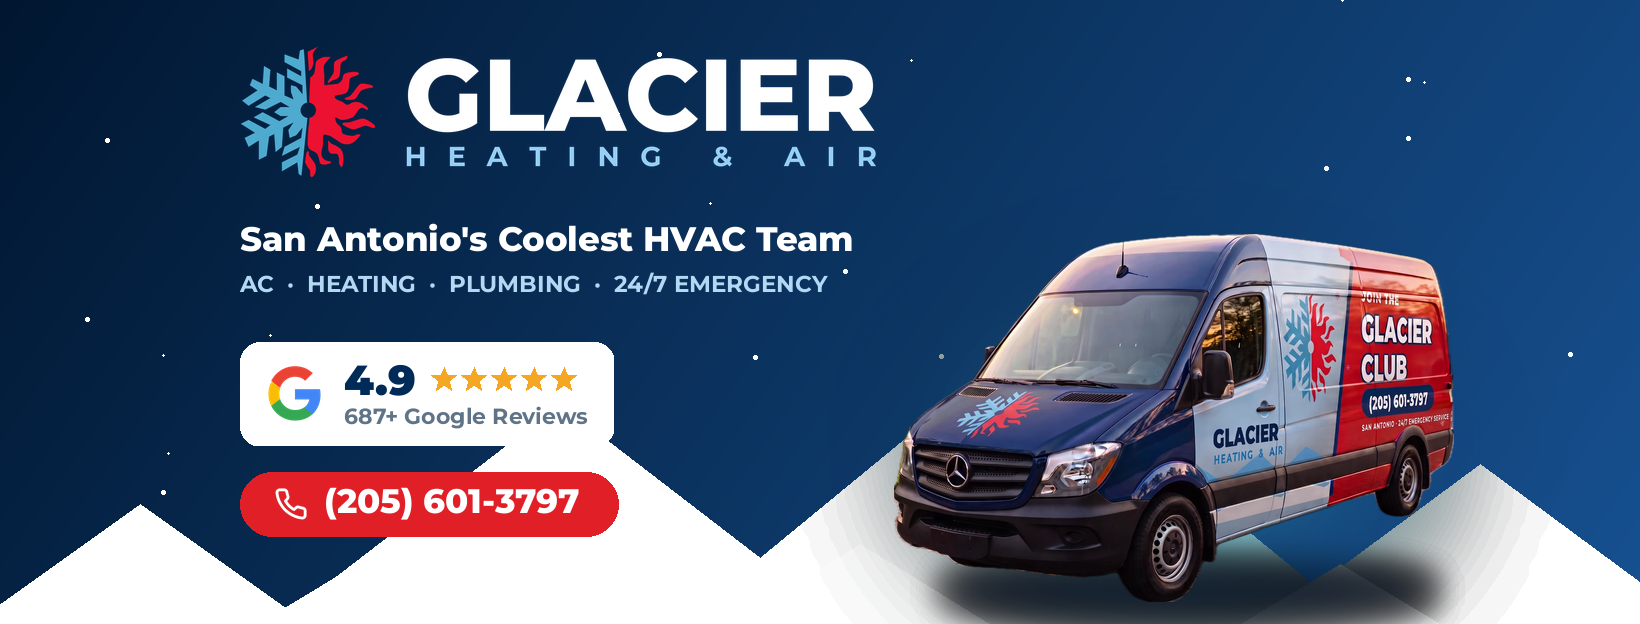
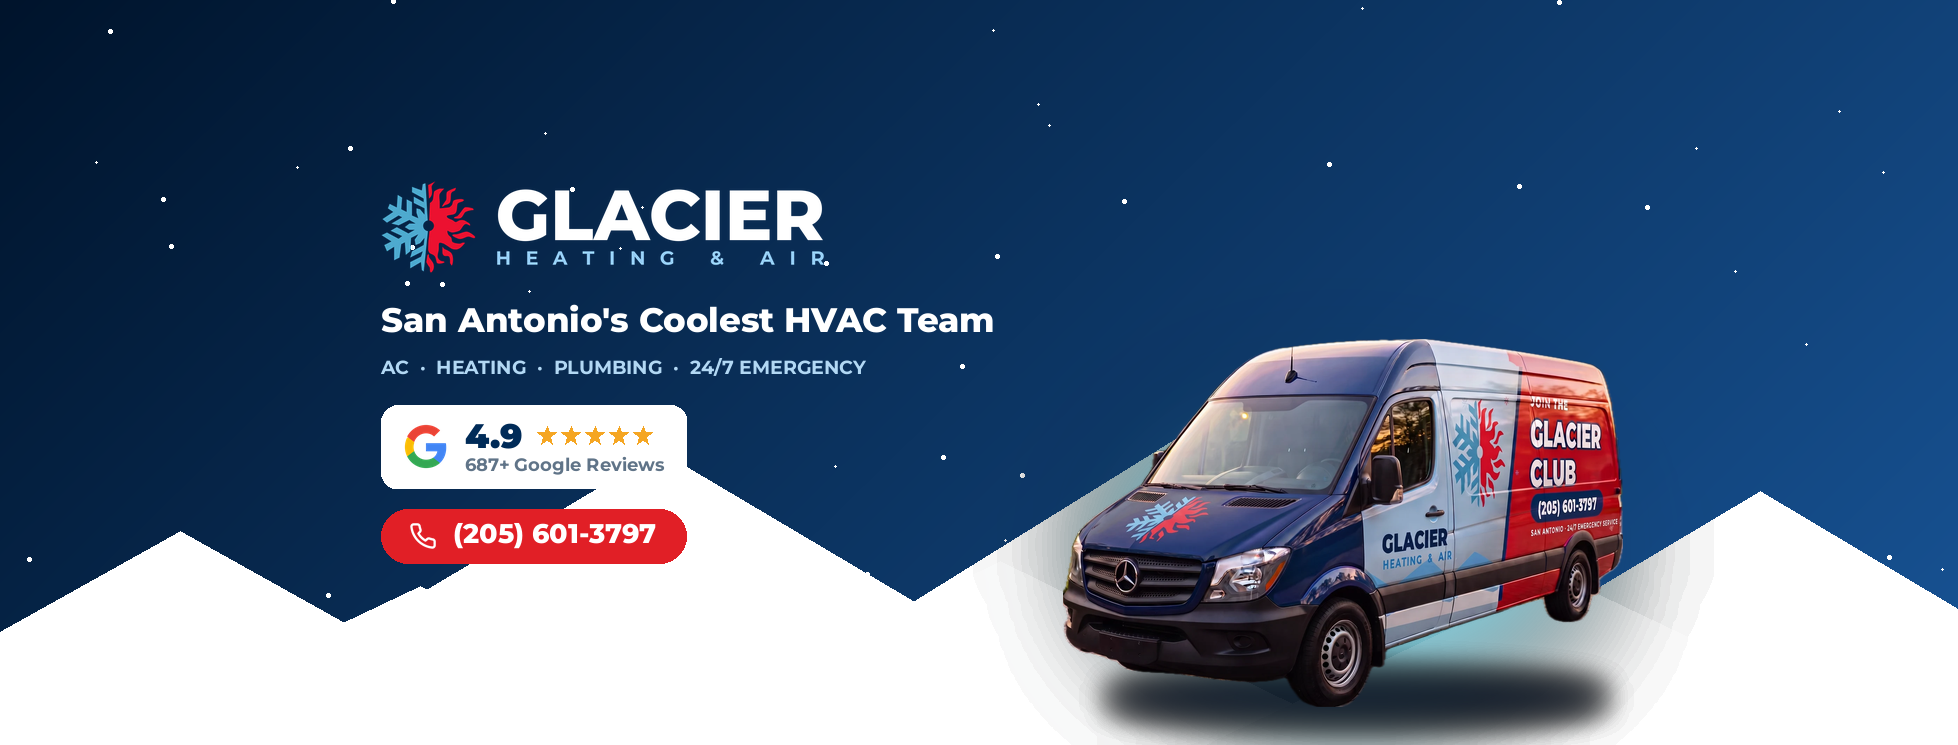
FB cover v2: rebuild at modern Page ratio 1958x745, compact premium scale, mobile-safe band verified

diff --git a/glacier-site/scratchpad/make_fb_cover.py b/glacier-site/scratchpad/make_fb_cover.py
@@ -1,18 +1,17 @@
 from PIL import Image, ImageDraw, ImageFont, ImageFilter
 import math
 
-# ---- Facebook cover math (2x master) ----
-W,H = 1640,924            # upload size (2x of 820x462)
-DESK = (0,150,1640,774)   # desktop shows center 1640x624
-MOB  = (180,102,1460,822) # mobile shows center 1280x720
-SAFE = (180,150,1460,774) # intersection: visible EVERYWHERE
+# ---- New Facebook Page layout: desktop shows ~2.63:1 full-bleed ----
+W,H = 1958,745                       # exact modern cover canvas
+# mobile shows a ~16:9 center crop: width = H*1.777 = 1324
+MOBW = int(H*640/360)                # 1324
+MX0=(W-MOBW)//2; MX1=MX0+MOBW        # 317..1641 = mobile-safe X band
+SAFE=(MX0,0,MX1,H)
 
 FT="/tmp/mfonts"
 def f(n,s): return ImageFont.truetype(f"{FT}/Montserrat-{n}.ttf", s)
-NAVY=(0,43,88,255); DEEP=(0,22,46,255); RED=(225,31,38,255)
-GOLD=(245,166,35,255); ICE=(150,206,245,255); TURQ=(72,202,228,255)
+NAVY=(0,43,88,255); RED=(225,31,38,255); GOLD=(245,166,35,255)
 
-# ---------- background: diagonal deep-navy -> ice, full bleed ----------
 img=Image.new("RGB",(W,H),(0,22,46)); px=img.load()
 c0=(0,20,44); c1=(24,84,150)
 for y in range(H):
@@ -22,20 +21,18 @@ for y in range(H):
 img=img.convert("RGBA")
 d=ImageDraw.Draw(img,"RGBA")
 
-# mountains along the bottom, full bleed
 def mtn(cx,base,w,h,col): d.polygon([(cx-w,base),(cx,base-h),(cx+w,base)],fill=col)
-for cx,w,h,a in [(140,420,300,26),(560,520,400,32),(1020,560,460,30),(1480,460,340,26)]:
-    mtn(cx,H+30,w,h,(255,255,255,a))
-for cx,w,h,a in [(340,380,230,40),(860,420,260,42),(1340,400,240,40)]:
-    mtn(cx,H+30,w,h,(255,255,255,a))
+for cx,w,h,a in [(180,430,240,24),(660,540,320,28),(1220,580,360,26),(1760,470,280,24)]:
+    mtn(cx,H+26,w,h,(255,255,255,a))
+for cx,w,h,a in [(420,390,185,36),(1000,430,210,38),(1560,410,195,36)]:
+    mtn(cx,H+26,w,h,(255,255,255,a))
 
-# sparse snowflake specks (edges, outside safe zone so they never crowd content)
 import hashlib
-for i in range(46):
+for i in range(56):
     hx=int(hashlib.md5(f"sx{i}".encode()).hexdigest(),16)%W
     hy=int(hashlib.md5(f"sy{i}".encode()).hexdigest(),16)%H
     r=1+(i%2)
-    a=46 if (hx<SAFE[0] or hx>SAFE[2] or hy<SAFE[1] or hy>SAFE[3]) else 20
+    a=42 if (hx<MX0 or hx>MX1) else 16
     d.ellipse([hx-r,hy-r,hx+r,hy+r],fill=(255,255,255,a))
 
 def tw(t,font):
@@ -50,76 +47,74 @@ def star(cx,cy,r,fill):
         pts.append((cx+rad*math.cos(a),cy+rad*math.sin(a)))
     d.polygon(pts,fill=fill)
 
-X0=240   # left column inside safe zone
-
-# ---------- left: white logo lockup ----------
-lock=Image.open("brand/glacier-logo-white.png").convert("RGBA")
-lock=lock.crop(lock.getbbox())
-lh=132; lw=int(lock.width*lh/lock.height)
-img.alpha_composite(lock.resize((lw,lh),Image.LANCZOS),(X0,196))
-d=ImageDraw.Draw(img,"RGBA")
-
-# tagline + services line (auto-fit clear of van zone)
-VAN_W=560
-VAN_LEFT=SAFE[2]-VAN_W-6
-tag="San Antonio's Coolest HVAC Team"
-ts=40
-while ts>28 and tw(tag,f("ExtraBold",ts)) > VAN_LEFT-X0-36: ts-=1
-d.text((X0,368),tag,font=f("ExtraBold",ts),fill=(255,255,255,255))
-sv="AC  ·  HEATING  ·  PLUMBING  ·  24/7 EMERGENCY"
-d.text((X0,368+int(ts*1.5)),sv,font=f("Bold",23),fill=(178,216,244,255))
-
-# ---------- Google review pill ----------
-gg=Image.open("scratchpad/googleg.png").convert("RGBA")
-py0=492; pill_h=104; gs=58; pad=26
-numf=f("Black",42); revf=f("Bold",22)
-nw=tw("4.9",numf); sr_=13; sgap=30; stars_w=sgap*4+sr_*2
-row1=nw+16+stars_w
-rw=tw("687+ Google Reviews",revf)
-colw=max(row1,rw)
-pw=pad+gs+20+colw+pad
-pill=Image.new("RGBA",(pw,pill_h),(0,0,0,0)); pd=ImageDraw.Draw(pill)
-pd.rounded_rectangle([0,0,pw,pill_h],radius=20,fill=(255,255,255,255))
-img.alpha_composite(pill,(X0,py0))
-img.alpha_composite(gg.resize((gs,gs),Image.LANCZOS),(X0+pad,py0+pill_h//2-gs//2))
-d=ImageDraw.Draw(img,"RGBA")
-cx=X0+pad+gs+20
-r1=py0+38; r2=py0+76
-w49=text_vc(cx,r1,"4.9",numf,NAVY)
-sx=cx+w49+16+sr_
-for i in range(5): star(sx+i*sgap,r1,sr_,GOLD)
-text_vc(cx,r2,"687+ Google Reviews",revf,(96,116,136,255))
-
-# ---------- red phone CTA pill ----------
-phf=f("ExtraBold",34); pht="(205) 601-3797"
-phicon=Image.open("scratchpad/phone.png").convert("RGBA").resize((34,34),Image.LANCZOS)
-pw2=34+16+tw(pht,phf)+72; ph2=64
-p2y=py0+pill_h+26
-d.rounded_rectangle([X0,p2y,X0+pw2,p2y+ph2],radius=32,fill=RED)
-img.alpha_composite(phicon,(X0+34,p2y+ph2//2-17))
-d=ImageDraw.Draw(img,"RGBA")
-text_vc(X0+34+34+16,p2y+ph2//2,pht,phf,(255,255,255,255))
-
-# ---------- right: van hero ----------
+# ---------- right: van (compact, grounded) ----------
 van=Image.open("public/van.webp").convert("RGBA")
-vw=VAN_W; vh=int(van.height*vw/van.width)
-van=van.resize((vw,vh),Image.LANCZOS)
-vx=VAN_LEFT; vy=752-vh
+VW=560; VH=int(van.height*VW/van.width)
+van=van.resize((VW,VH),Image.LANCZOS)
+vx=MX1-VW-18; vy=H-VH-38
 glow=Image.new("RGBA",(W,H),(0,0,0,0)); gd=ImageDraw.Draw(glow)
-gd.ellipse([vx+40,vy+60,vx+vw-40,vy+vh-10],fill=(72,202,228,64))
-glow=glow.filter(ImageFilter.GaussianBlur(70))
+gd.ellipse([vx+40,vy+50,vx+VW-40,vy+VH-8],fill=(72,202,228,60))
+glow=glow.filter(ImageFilter.GaussianBlur(60))
 img.alpha_composite(glow)
 sh=Image.new("RGBA",(W,H),(0,0,0,0)); sd=ImageDraw.Draw(sh)
-sd.ellipse([vx+50,vy+vh-40,vx+vw-24,vy+vh+16],fill=(0,10,26,150))
-sh=sh.filter(ImageFilter.GaussianBlur(16))
+sd.ellipse([vx+46,vy+VH-34,vx+VW-20,vy+VH+14],fill=(0,10,26,150))
+sh=sh.filter(ImageFilter.GaussianBlur(14))
 img.alpha_composite(sh)
 img.alpha_composite(van,(vx,vy))
 d=ImageDraw.Draw(img,"RGBA")
 
-img.convert("RGB").save("scratchpad/fb-cover.png",optimize=True)
+# ---------- left column: measured stack, vertically centered ----------
+X0=MX0+64
+CONTENT_RIGHT=vx-44   # hard clear of the van
 
-# ---------- device previews ----------
+lock=Image.open("brand/glacier-logo-white.png").convert("RGBA")
+lock=lock.crop(lock.getbbox())
+lh=92; lw=int(lock.width*lh/lock.height)
+# stack metrics
+tag="San Antonio's Coolest HVAC Team"
+ts=34
+while ts>24 and X0+tw(tag,f("ExtraBold",ts)) > CONTENT_RIGHT: ts-=1
+sv="AC  ·  HEATING  ·  PLUMBING  ·  24/7 EMERGENCY"
+svf=f("Bold",19)
+# google pill metrics (compact)
+gs=46; pad=22; numf=f("Black",34); revf=f("Bold",18)
+nw=tw("4.9",numf); sr_=10; sgap=24; stars_w=sgap*4+sr_*2
+colw=max(nw+14+stars_w, tw("687+ Google Reviews",revf))
+pw=pad+gs+16+colw+pad; pill_h=84
+# phone pill metrics
+phf=f("ExtraBold",27); pht="(205) 601-3797"
+pw2=28+16+tw(pht,phf)+56+2; ph2=54
+
+GAP1,GAP2,GAP3,GAP4 = 26,14,24,20
+total = lh+GAP1+int(ts*1.25)+GAP2+26+GAP3+pill_h+GAP4+ph2
+y = (H-total)//2
+img.alpha_composite(lock.resize((lw,lh),Image.LANCZOS),(X0,y)); d=ImageDraw.Draw(img,"RGBA")
+y += lh+GAP1
+d.text((X0,y),tag,font=f("ExtraBold",ts),fill=(255,255,255,255))
+y += int(ts*1.25)+GAP2
+d.text((X0,y),sv,font=svf,fill=(178,216,244,255))
+y += 26+GAP3
+pill=Image.new("RGBA",(pw,pill_h),(0,0,0,0)); pd=ImageDraw.Draw(pill)
+pd.rounded_rectangle([0,0,pw,pill_h],radius=17,fill=(255,255,255,255))
+img.alpha_composite(pill,(X0,y))
+gg=Image.open("scratchpad/googleg.png").convert("RGBA")
+img.alpha_composite(gg.resize((gs,gs),Image.LANCZOS),(X0+pad,y+pill_h//2-gs//2))
+d=ImageDraw.Draw(img,"RGBA")
+cx=X0+pad+gs+16
+r1=y+31; r2=y+61
+w49=text_vc(cx,r1,"4.9",numf,NAVY)
+sx=cx+w49+14+sr_
+for i in range(5): star(sx+i*sgap,r1,sr_,GOLD)
+text_vc(cx,r2,"687+ Google Reviews",revf,(96,116,136,255))
+y += pill_h+GAP4
+d.rounded_rectangle([X0,y,X0+pw2,y+ph2],radius=27,fill=RED)
+phicon=Image.open("scratchpad/phone.png").convert("RGBA").resize((28,28),Image.LANCZOS)
+img.alpha_composite(phicon,(X0+28,y+ph2//2-14))
+d=ImageDraw.Draw(img,"RGBA")
+text_vc(X0+28+28+16,y+ph2//2,pht,phf,(255,255,255,255))
+
+img.convert("RGB").save("scratchpad/fb-cover.png",optimize=True)
 full=Image.open("scratchpad/fb-cover.png")
-full.crop(DESK).save("scratchpad/fb-cover-desktop-preview.png")
-full.crop(MOB).save("scratchpad/fb-cover-mobile-preview.png")
-print("cover",full.size,"desktop",DESK,"mobile",MOB)
+full.save("scratchpad/fb-cover-desktop-preview.png")   # desktop = full frame
+full.crop((MX0,0,MX1,H)).save("scratchpad/fb-cover-mobile-preview.png")
+print("cover",full.size,"mobile band x",MX0,MX1)
